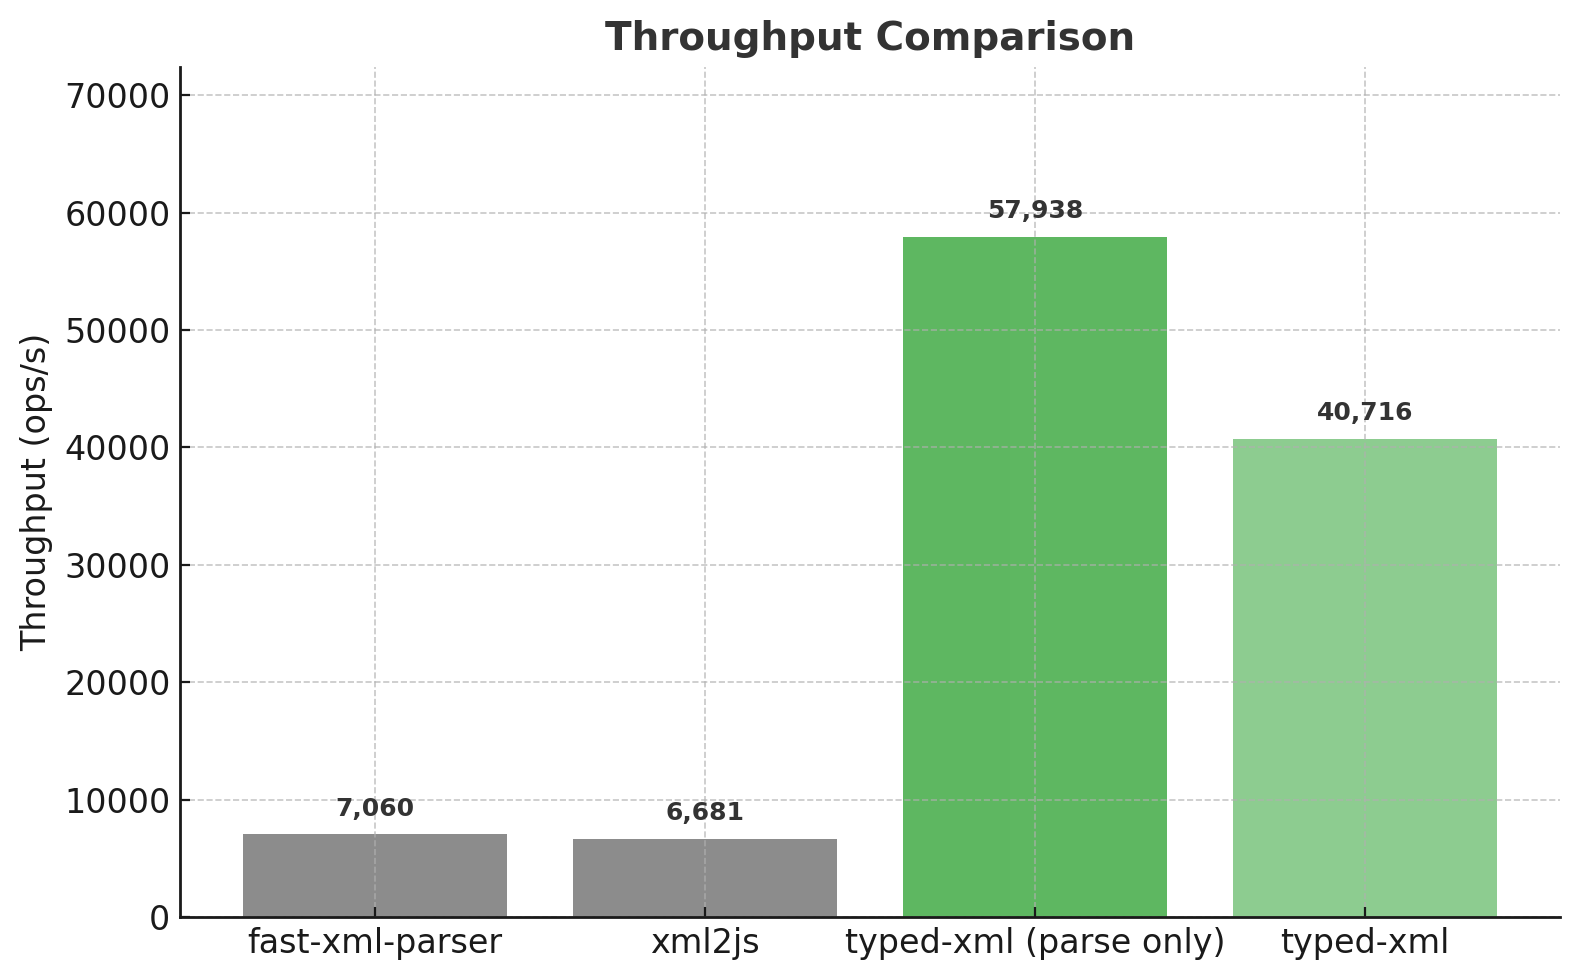
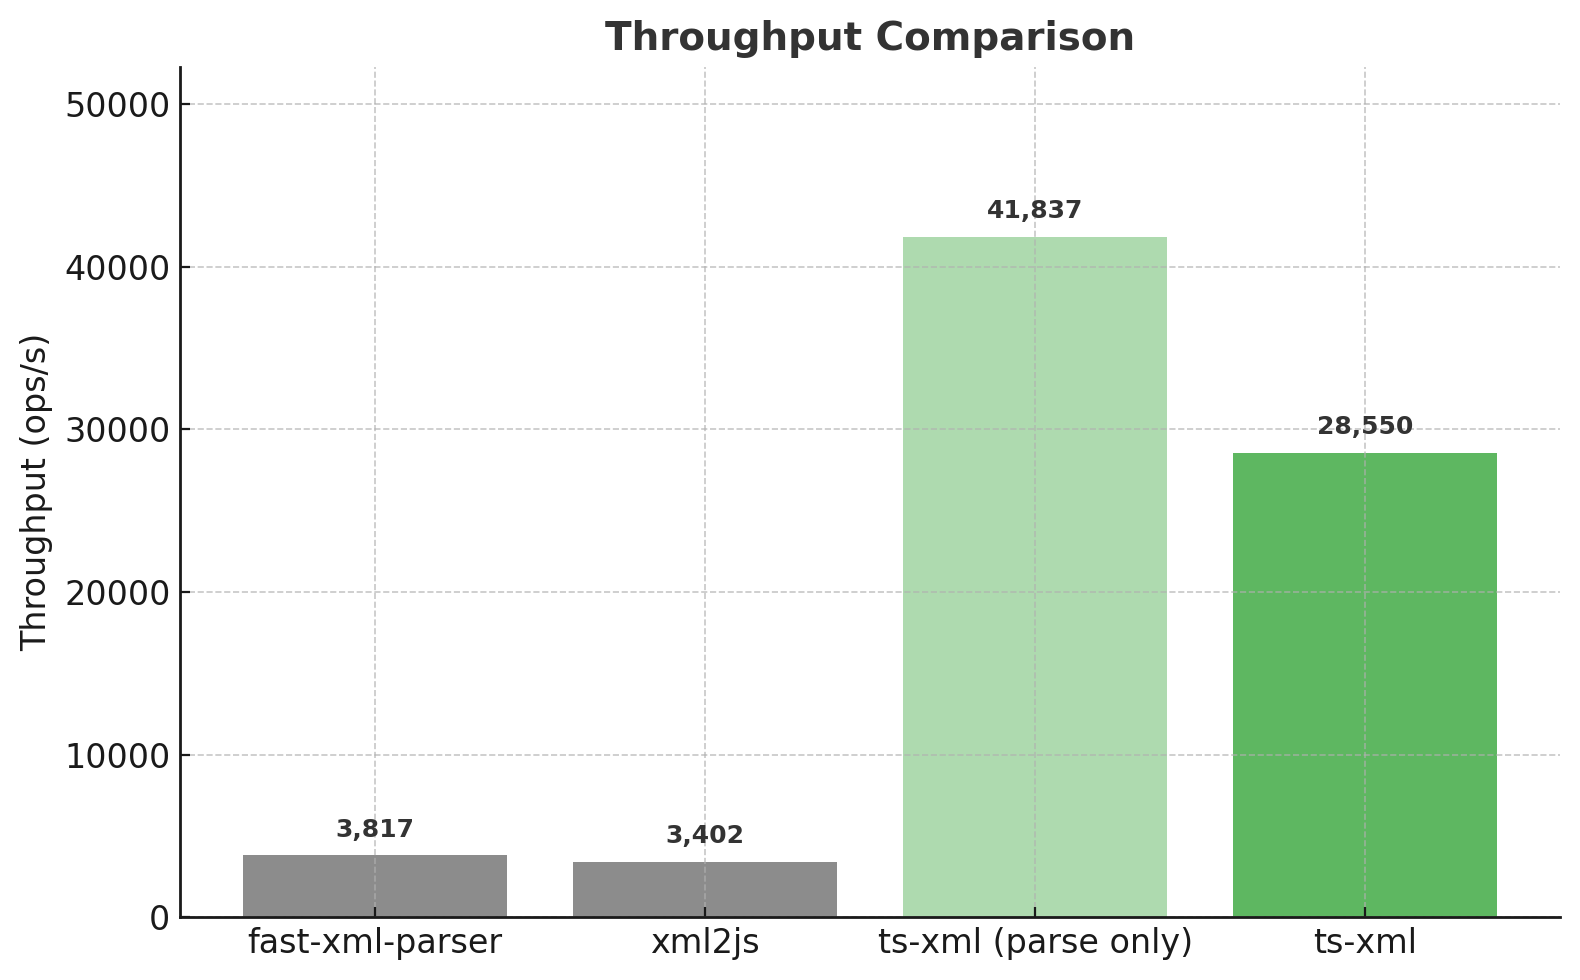
docs: Update benchmark result

diff --git a/README.md b/README.md
@@ -123,8 +123,9 @@ const booksSchema = tx.array(
 ![](benchmark/result.png)
 
 The chart compares the throughput (operations per second) of three XML parsers.
-fast-xml-parser achieves 7,060 ops/s, and xml2js follows closely with 6,681 ops/s.
-In contrast, ts-xml reaches 40,716 ops/s, which is about **5.8× faster than fast-xml-parser and 6.1× faster than xml2js**.
+fast-xml-parser achieves 3,817 ops/s, and xml2js follows with 3,402 ops/s.
+In contrast, ts-xml reaches 28,550 ops/s (with validation) and 41,837 ops/s (parse only), which is about **7.5× faster
+than fast-xml-parser and 8.4× faster than xml2js** in parse-only mode.
 This clearly shows that ts-xml delivers far superior performance, providing high-speed XML parsing suitable for demanding real-time or large-scale applications.
 
 ## API Reference
